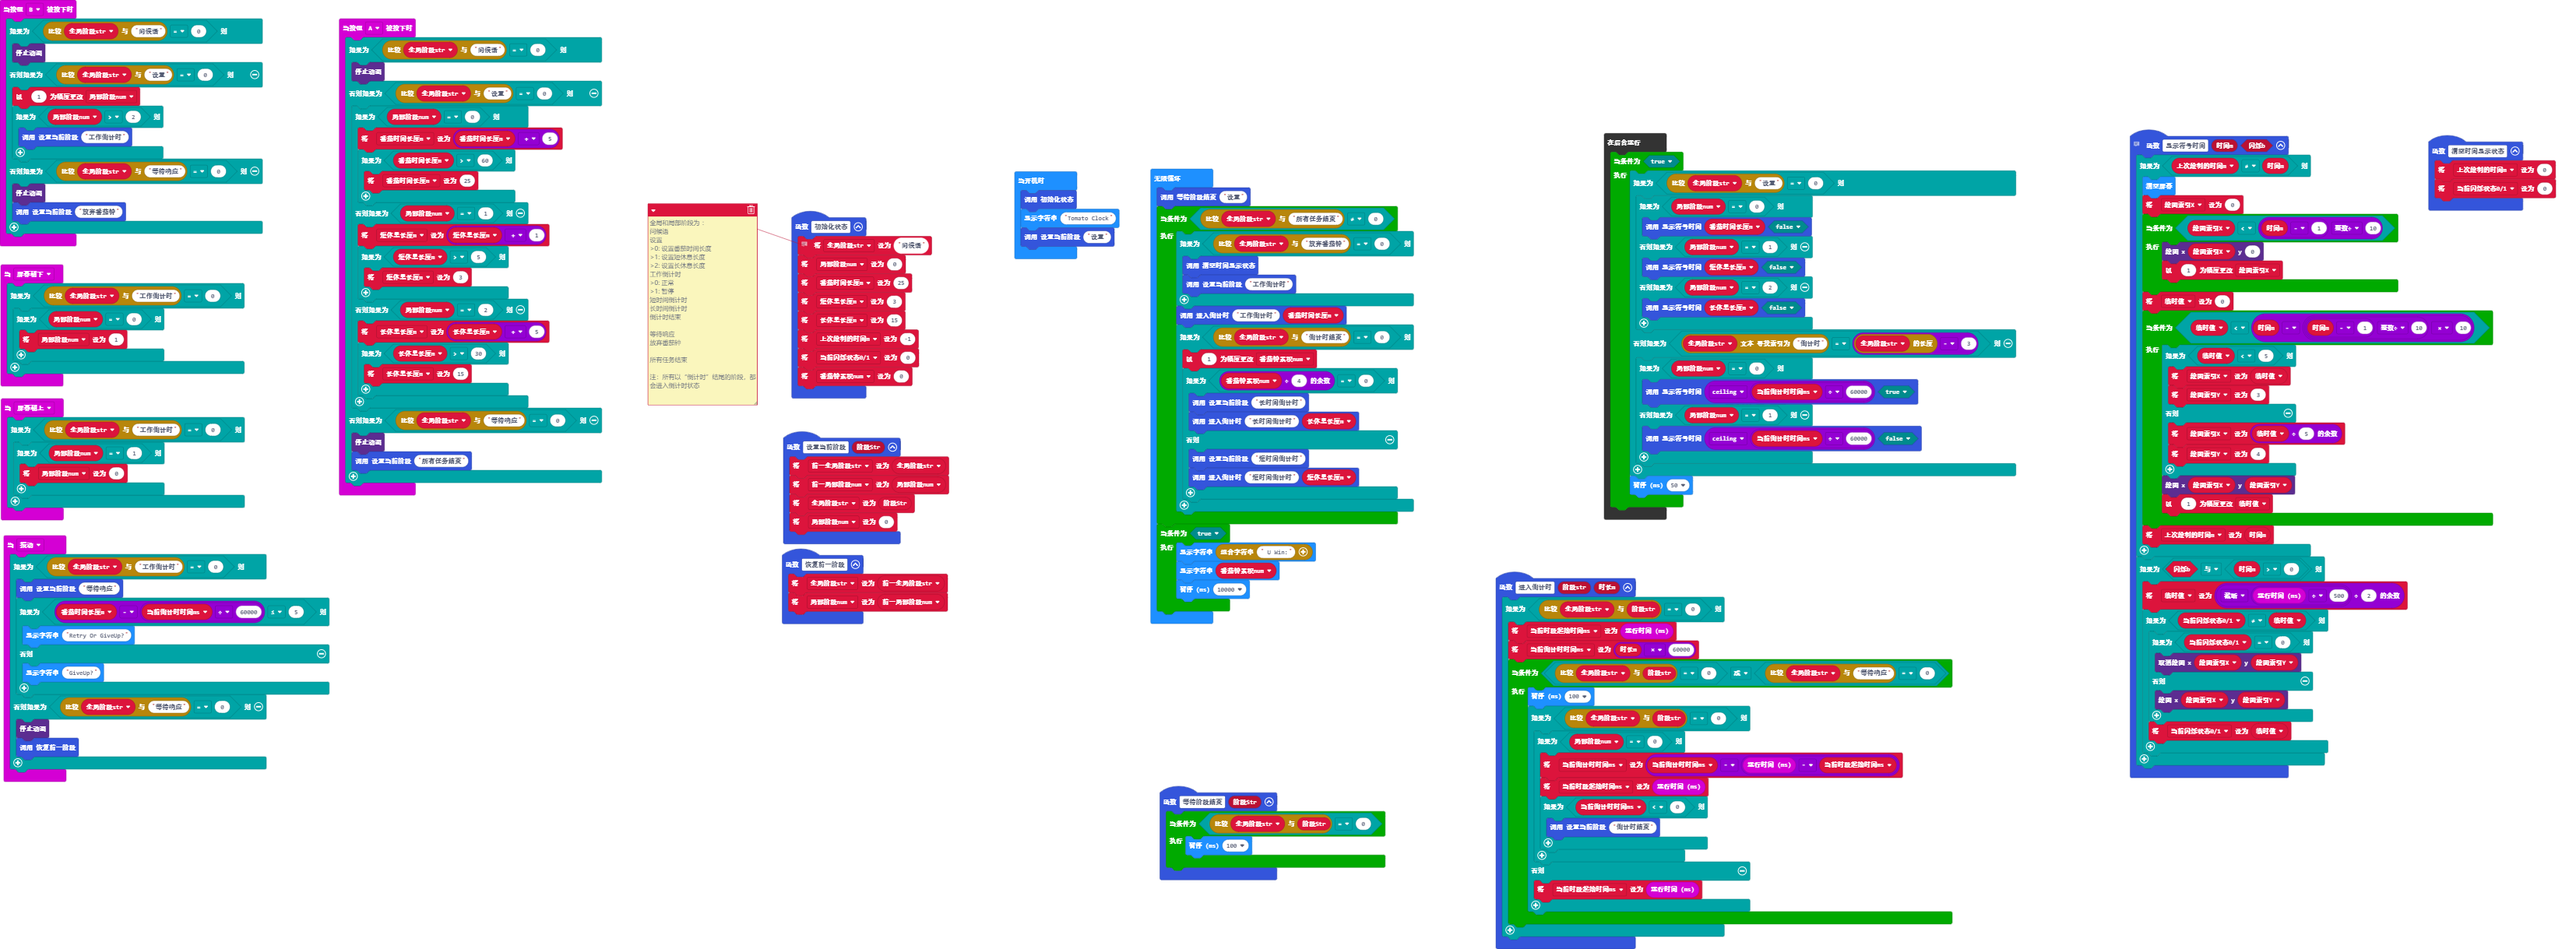
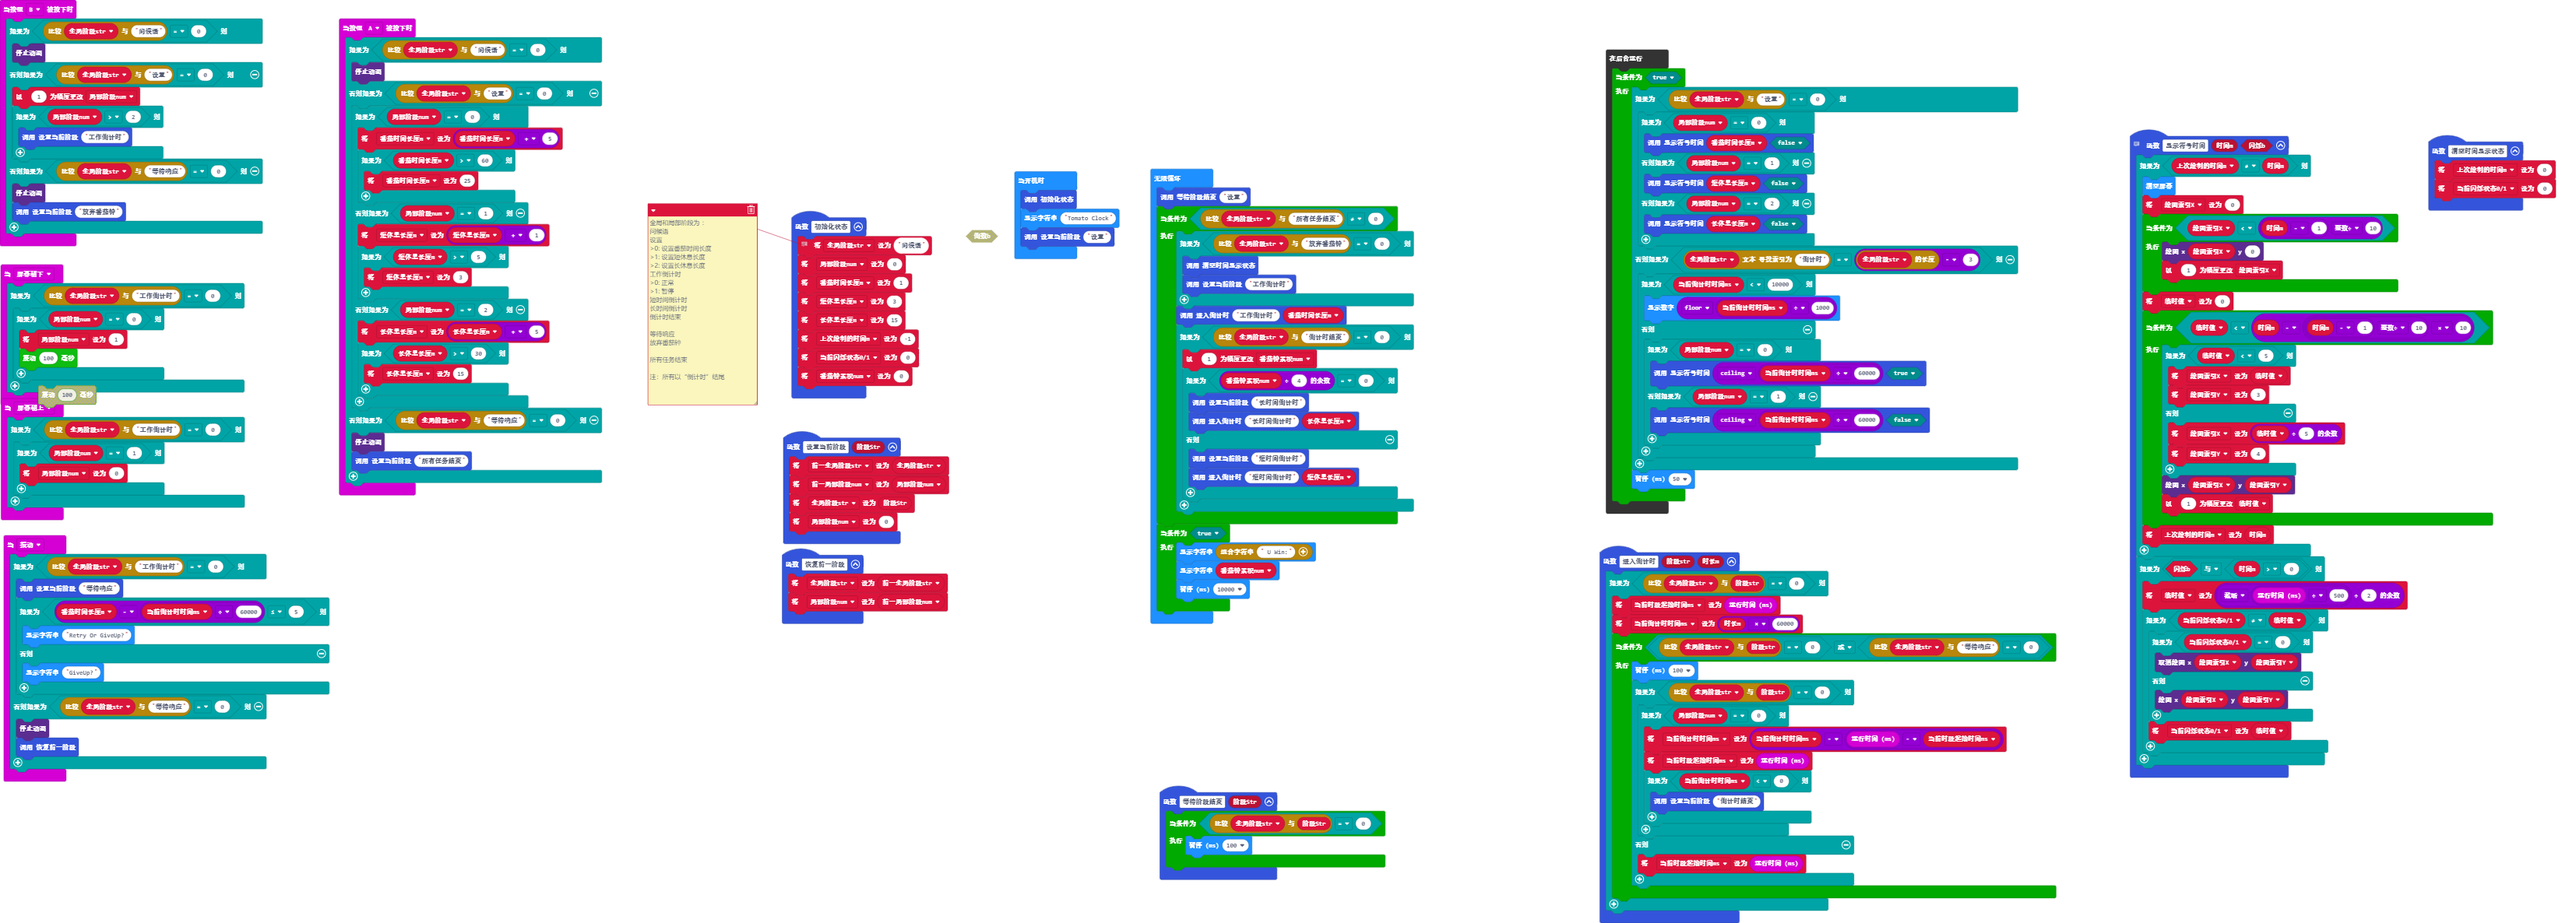
更新 main.blocks, main.ts

Changed region(s): [[0.4359, 0.0312, 0.9964, 1.0], [0.0, 0.0, 0.5605, 0.8735]]

diff --git a/main.ts b/main.ts
@@ -2,6 +2,7 @@ input.onGesture(Gesture.ScreenDown, function () {
     if (全局阶段str.compare("工作倒计时") == 0) {
         if (局部阶段num == 0) {
             局部阶段num = 1
+            joystickbit.Vibration_Motor(100)
         }
     }
 })
@@ -153,10 +154,10 @@ function 初始化状态 () {
     // 
     // 所有任务结束
     // 
-    // 注：所有以“倒计时”结尾的阶段，都会进入倒计时状态
+    // 注：所有以“倒计时”结尾
     全局阶段str = "问候语"
     局部阶段num = 0
-    番茄时间长度m = 25
+    番茄时间长度m = 1
     短休息长度m = 3
     长休息长度m = 15
     上次绘制的时间m = -1
@@ -224,10 +225,14 @@ control.inBackground(function () {
                 显示符号时间(长休息长度m, false)
             }
         } else if (全局阶段str.indexOf("倒计时") == 全局阶段str.length - 3) {
-            if (局部阶段num == 0) {
-                显示符号时间(Math.ceil(当前倒计时时间ms / 60000), true)
-            } else if (局部阶段num == 1) {
-                显示符号时间(Math.ceil(当前倒计时时间ms / 60000), false)
+            if (当前倒计时时间ms < 10000) {
+                basic.showNumber(Math.floor(当前倒计时时间ms / 1000))
+            } else {
+                if (局部阶段num == 0) {
+                    显示符号时间(Math.ceil(当前倒计时时间ms / 60000), true)
+                } else if (局部阶段num == 1) {
+                    显示符号时间(Math.ceil(当前倒计时时间ms / 60000), false)
+                }
             }
         }
         basic.pause(50)
